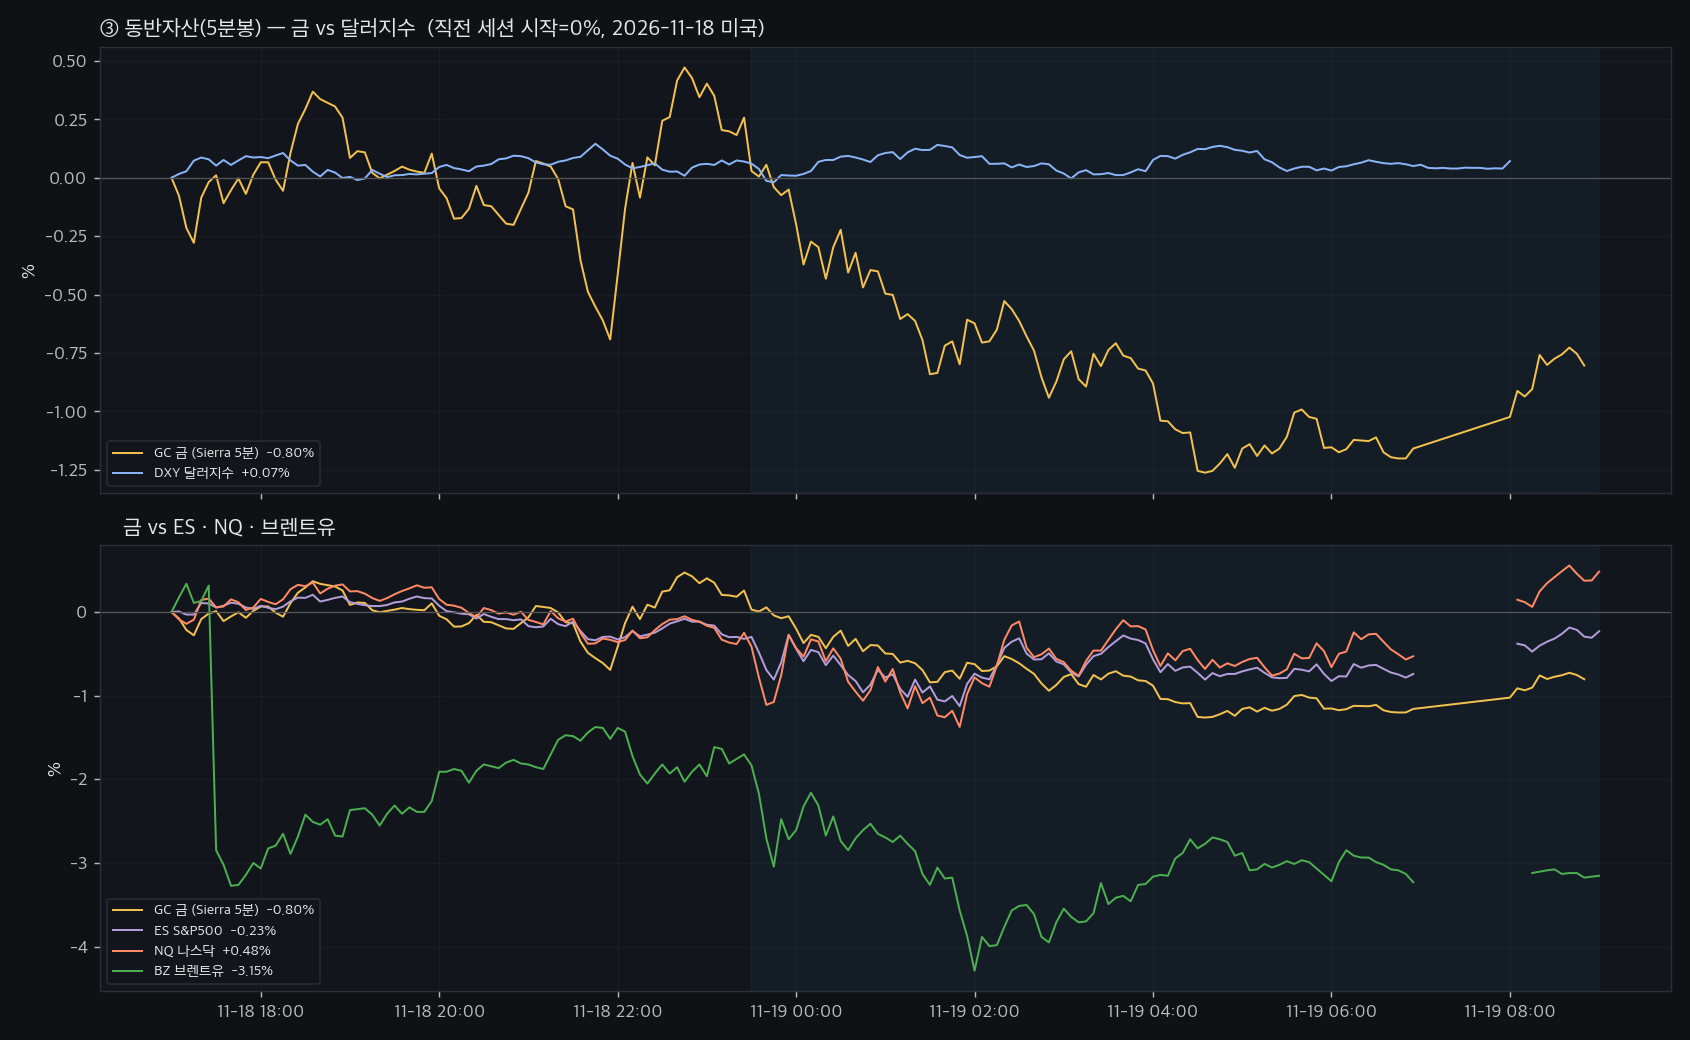
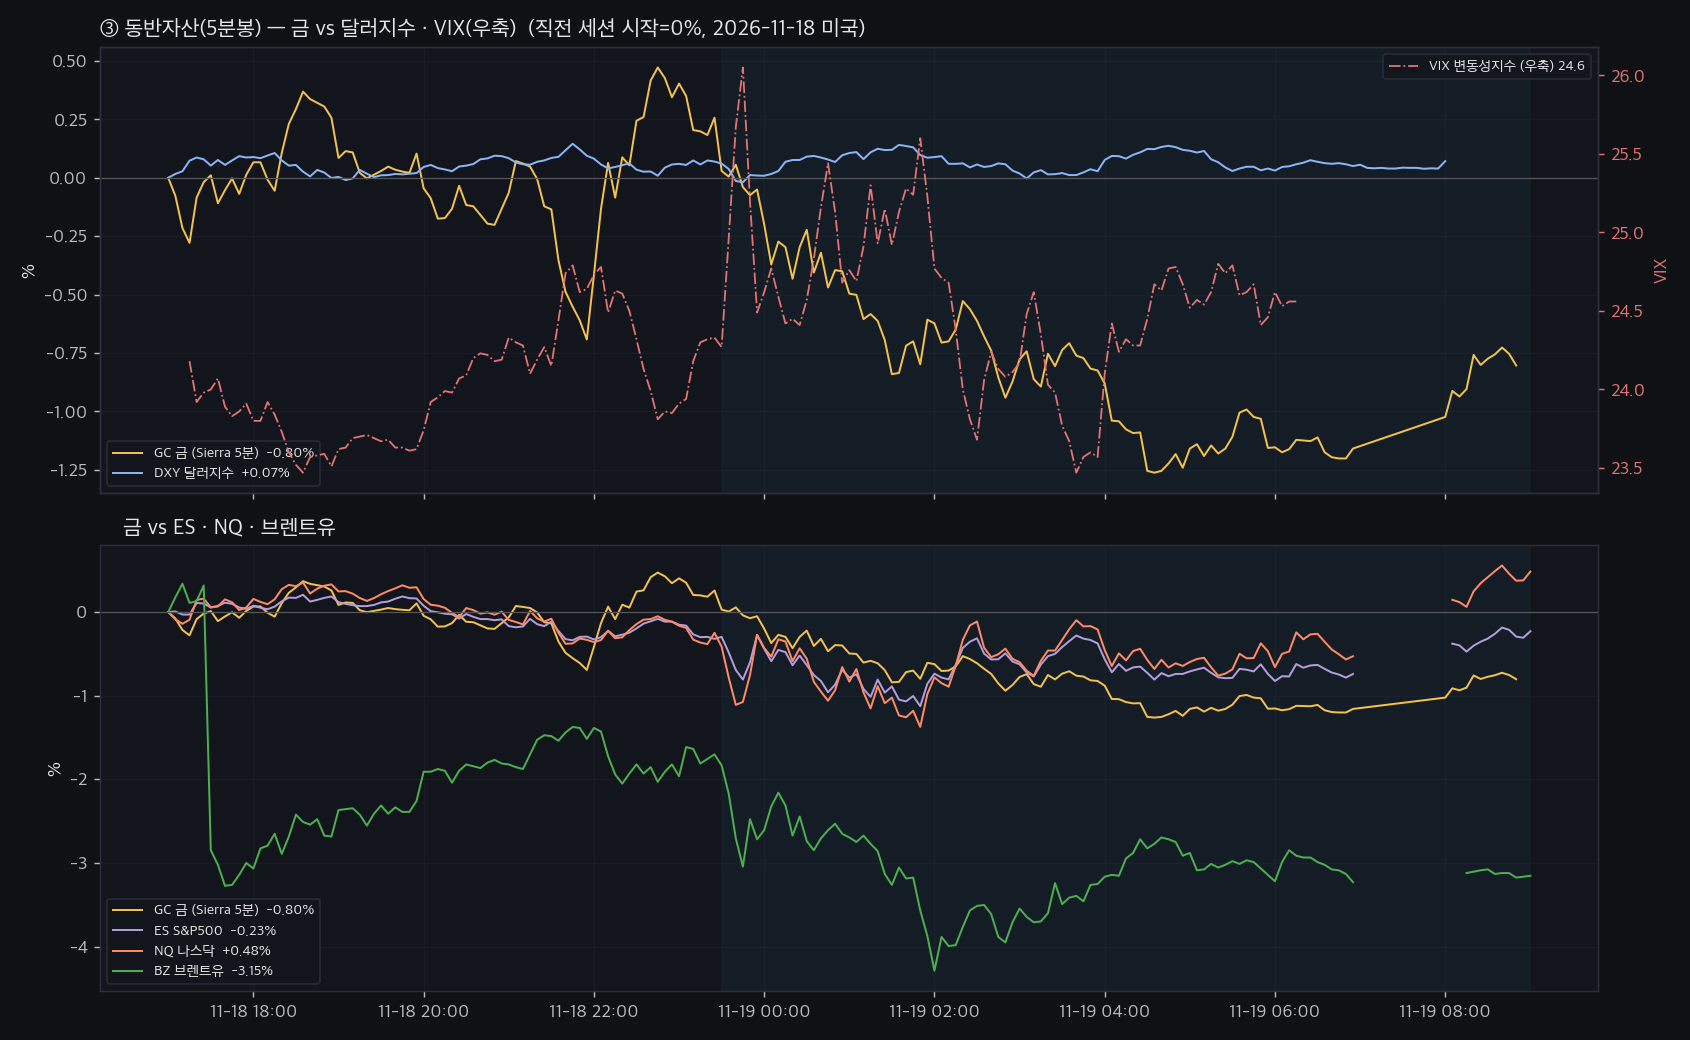
동반자산 그림에 VIX(우축) 추가

diff --git a/index.html b/index.html
@@ -20,7 +20,7 @@ details.co-info{border-left-color:#3a7bd5}details.co-info>summary{background:rgb
 details.co-tip,details.co-success{border-left-color:#3cab6e}details.co-tip>summary,details.co-success>summary{background:rgba(60,171,110,.18)}
 </style></head><body><h1>Gold Forecastor — COMEX 금 세션 예측·복기</h1>
 <p style="font-size:1.1em"><a href="calendar.html"><b>📅 캘린더 (주간/월간)</b></a> &nbsp;·&nbsp; <a href="events/index.html"><b>📊 이벤트별 과거 영향 분석</b></a> (69개 가족, 발생 기록 34건)</p>
-<p class="muted">생성: 2026-11-19 12:47 KST · 2026-11-18 22:47 EST ET</p>
+<p class="muted">생성: 2026-11-19 12:55 KST · 2026-11-18 22:55 EST ET</p>
 <h2>오늘·내일 이벤트</h2><p class="muted">2026-11-19 ~ 2026-11-21 (KST)</p><table><tr><th>날짜(KST)</th><th>ET 시각</th><th>KST 시각</th><th>이벤트</th><th>등급</th><th>차단 창 (ET / KST)</th><th>과거 분석</th><th>출처</th></tr><tr class="warn"><td>2026-11-19</td><td>14:00</td><td>04:00</td><td>FOMC minutes (meeting 2026-10-28) (tentative)</td><td>주의</td><td>2026-11-18 13:55 ~ 2026-11-18 14:20<br>2026-11-19 03:55 ~ 2026-11-19 04:20</td><td><a href="events/FOMC minutes.html">프로필</a></td><td><a href="https://www.federalreserve.gov/monetarypolicy/fomccalendars.htm">링크</a></td></tr><tr class="warn"><td>2026-11-19</td><td>08:30</td><td>22:30</td><td>US Initial Jobless Claims (weekly)</td><td>주의</td><td>2026-11-19 08:25 ~ 2026-11-19 09:00<br>2026-11-19 22:25 ~ 2026-11-19 23:00</td><td><a href="events/US Initial Jobless Claims.html">프로필</a></td><td><a href="https://www.dol.gov/ui/data.pdf">링크</a></td></tr><tr class="warn"><td>2026-11-20</td><td>20:00</td><td>10:00</td><td>PBoC Loan Prime Rate (1y/5y)</td><td>주의</td><td>2026-11-19 19:55 ~ 2026-11-19 20:30<br>2026-11-20 09:55 ~ 2026-11-20 10:30</td><td><a href="events/PBoC LPR.html">프로필</a></td><td><a href="http://www.pbc.gov.cn/">링크</a></td></tr><tr class="ign"><td>2026-11-21</td><td>15:30</td><td>05:30</td><td>CFTC Commitments of Traders (GC positioning)</td><td>무시</td><td>2026-11-20 15:30 ~ 2026-11-20 15:45<br>2026-11-21 05:30 ~ 2026-11-21 05:45</td><td><a href="events/CFTC COT.html">프로필</a></td><td><a href="https://www.cftc.gov/MarketReports/CommitmentsofTraders/ReleaseSchedule/index.htm">링크</a></td></tr><tr class="ign"><td>2026-11-21</td><td>16:00</td><td>06:00</td><td>GLD/equity monthly options expiry</td><td>무시</td><td>2026-11-20 16:00 ~ 2026-11-20 16:15<br>2026-11-21 06:00 ~ 2026-11-21 06:15</td><td><a href="events/GLD options expiry.html">프로필</a></td><td><a href="https://www.cboe.com/about/hours/us-options/">링크</a></td></tr></table>
 <h2>지난 세션 복기 (최신)</h2><p class="muted"><a href="reviews/2026-11-18_미국.html">2026-11-18_미국</a></p><div class="note"><h1>2026-11-18 미국 세션 복기 (09:30 ET~19:00 ET / 23:30~11-19 09:00 KST)</h1>
 <p>작성 07:40 KST · <strong>부분 복기(~06:59 KST)</strong> · 틱 <code>GC_2026-11-18.p0720.ok</code> window_utc 12:37~22:15 · bars_in_window 563 · 마지막 봉 21:59 UTC(Coordinated Universal Time, 협정 세계시) · written_kst 07:18:07 · 세션 450봉(09:30~16:59 ET) · 꼬리(18:00~19:00 ET)는 11-19 15:20 아시아 복기 ⓪ · 예측: <a href="forecasts/2026-11-18_미국.html">2026-11-18_미국</a></p>
